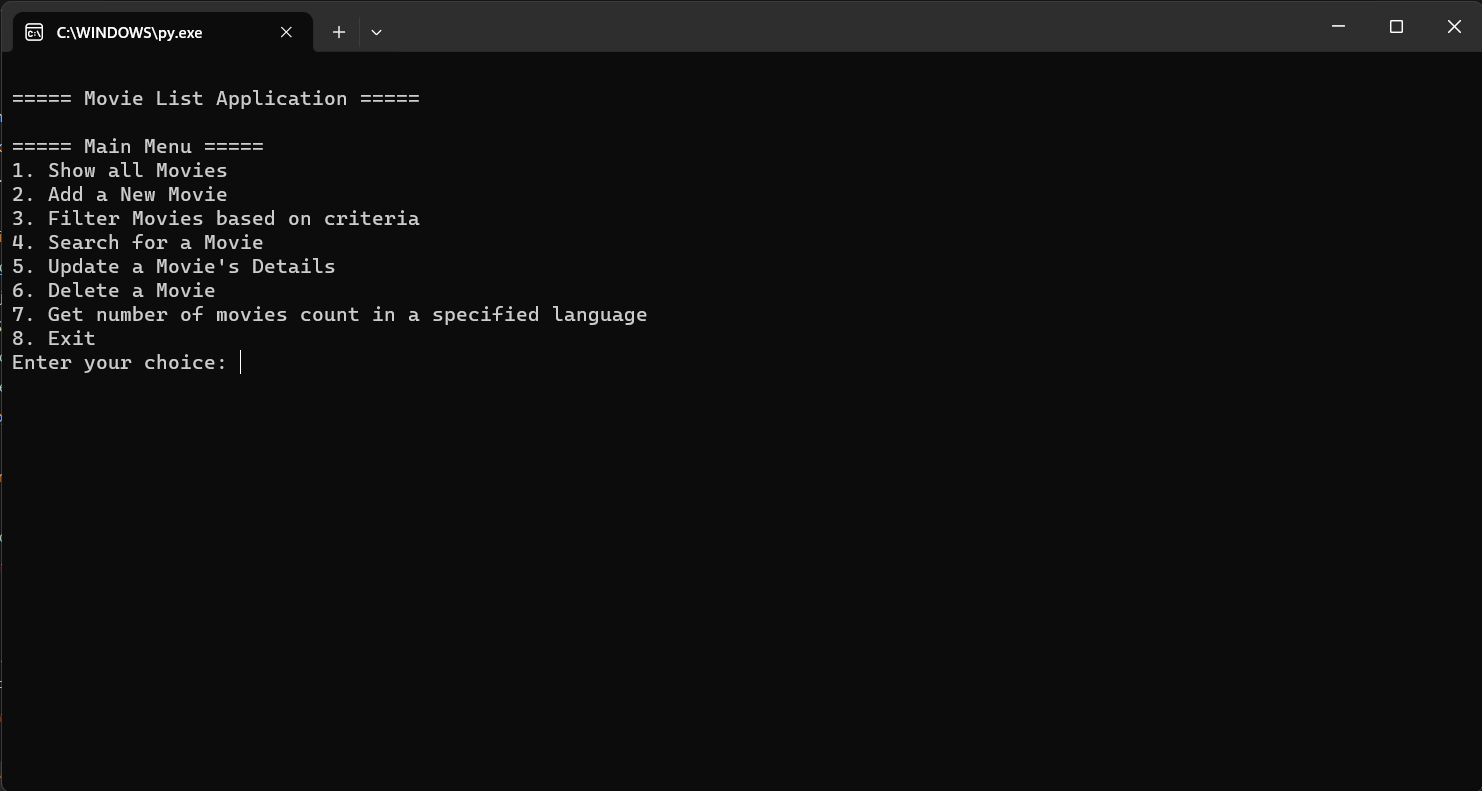
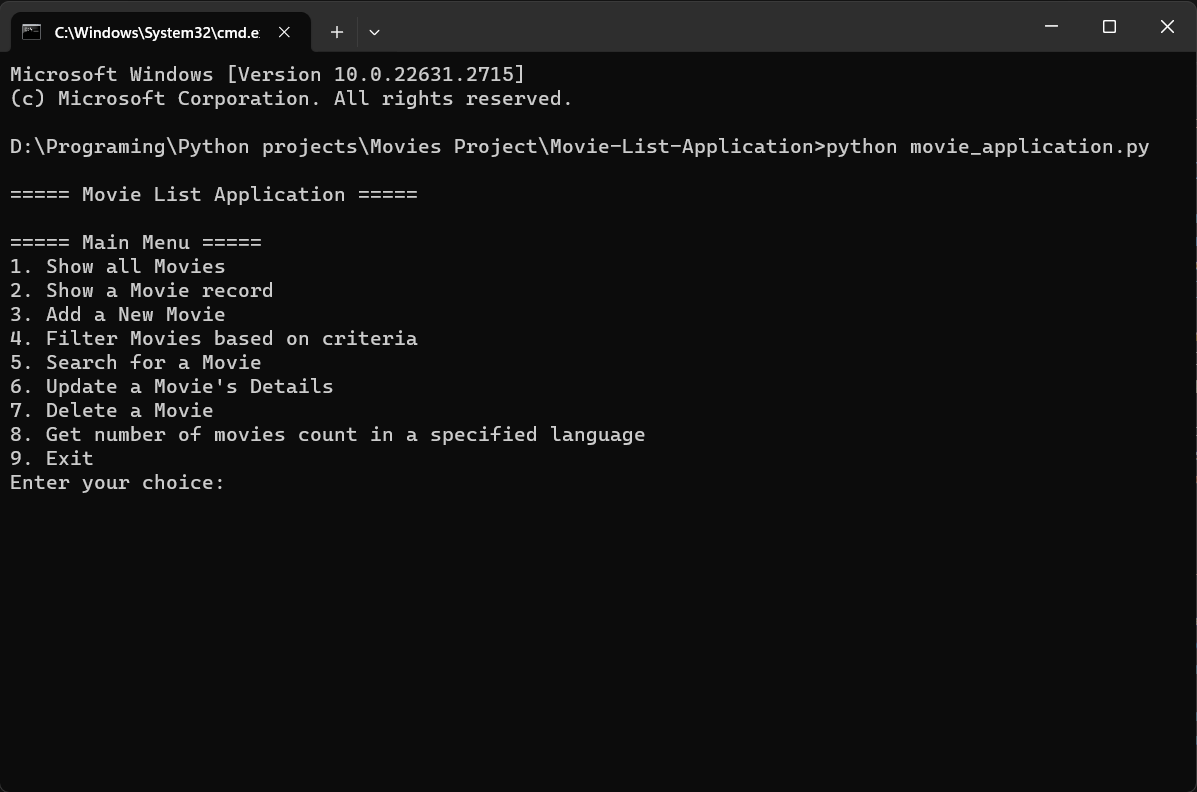
Update

Changed region(s): [[0.0, 0.0, 0.9582, 0.6372], [0.9273, 0.0303, 0.9582, 0.0607]]

diff --git a/movie_application.py b/movie_application.py
@@ -20,6 +20,32 @@ def show_all_movies(movies):
     for movie in movies:
         print(f"{movie['name']}")
 
+def show_and_choose_movie(movies):
+    if not movies:
+        print("No movies found.")
+        return
+    
+    print("\nMovies List:")
+    for idx, movie in enumerate(movies, start=1):
+        print(f"{idx}. {movie['name']}")
+
+    choice = input("\nEnter the number of the movie to see details: ")
+
+    try:
+        choice = int(choice)
+        if 1 <= choice <= len(movies):
+            chosen_movie = movies[choice - 1]
+            print("\nChosen Movie Details:")
+            print(f"Title: {chosen_movie['name']}")
+            print(f"Director: {chosen_movie['director']}")
+            print(f"Release Year: {chosen_movie['release_year']}")
+            print(f"Language: {chosen_movie['language']}")
+            print(f"Rating: {chosen_movie['rating']}")
+        else:
+            print("Invalid movie number. Please select a valid option.")
+    except ValueError:
+        print("Invalid input. Please enter a number.")
+
 def add_new_movie(movies):
     name = input("Enter movie name: ")
     director = input("Enter director's name: ")
@@ -51,16 +77,16 @@ def filter_movies(movies):
 
     if choice == '1':
         search_term = input("Enter movie name to filter: ")
-        filtered_movies = [movie for movie in movies if search_term.lower() in movie['name'].lower()]
+        filtered_movies = [movie for movie in movies if search_term.lower() == movie['name'].lower()]
     elif choice == '2':
         search_term = input("Enter director's name to filter: ")
-        filtered_movies = [movie for movie in movies if search_term.lower() in movie['director'].lower()]
+        filtered_movies = [movie for movie in movies if search_term.lower() == movie['director'].lower()]
     elif choice == '3':
         search_term = input("Enter release year to filter: ")
         filtered_movies = [movie for movie in movies if search_term == movie['release_year']]
     elif choice == '4':
         search_term = input("Enter language to filter: ")
-        filtered_movies = [movie for movie in movies if search_term.lower() in movie['language'].lower()]
+        filtered_movies = [movie for movie in movies if search_term.lower() == movie['language'].lower()]
     elif choice == '5':
         search_term = input("Enter rating to filter: ")
         filtered_movies = [movie for movie in movies if search_term == movie['rating']]
@@ -210,30 +236,33 @@ def main():
         print("\n===== Movie List Application =====")
         print("\n===== Main Menu =====")
         print("1. Show all Movies")
-        print("2. Add a New Movie")
-        print("3. Filter Movies based on criteria")
-        print("4. Search for a Movie")
-        print("5. Update a Movie's Details")
-        print("6. Delete a Movie")
-        print("7. Get number of movies count in a specified language")
-        print("8. Exit")
+        print("2. Show a Movie record")
+        print("3. Add a New Movie")
+        print("4. Filter Movies based on criteria")
+        print("5. Search for a Movie")
+        print("6. Update a Movie's Details")
+        print("7. Delete a Movie")
+        print("8. Get number of movies count in a specified language")
+        print("9. Exit")
         choice = input("Enter your choice: ")
 
         if choice == '1':
             show_all_movies(movies)
         elif choice == '2':
-            add_new_movie(movies)
+            show_and_choose_movie(movies)
         elif choice == '3':
-            filter_movies(movies)
+            add_new_movie(movies)
         elif choice == '4':
-            search_movie(movies)
+            filter_movies(movies)
         elif choice == '5':
-            update_movie(movies)
+            search_movie(movies)
         elif choice == '6':
-            delete_movie(movies)
+            update_movie(movies)
         elif choice == '7':
-            get_movies_in_language(movies)
+            delete_movie(movies)
         elif choice == '8':
+            get_movies_in_language(movies)
+        elif choice == '9':
             print("Exiting the Movie List Application. Goodbye!")
             break
         else:
